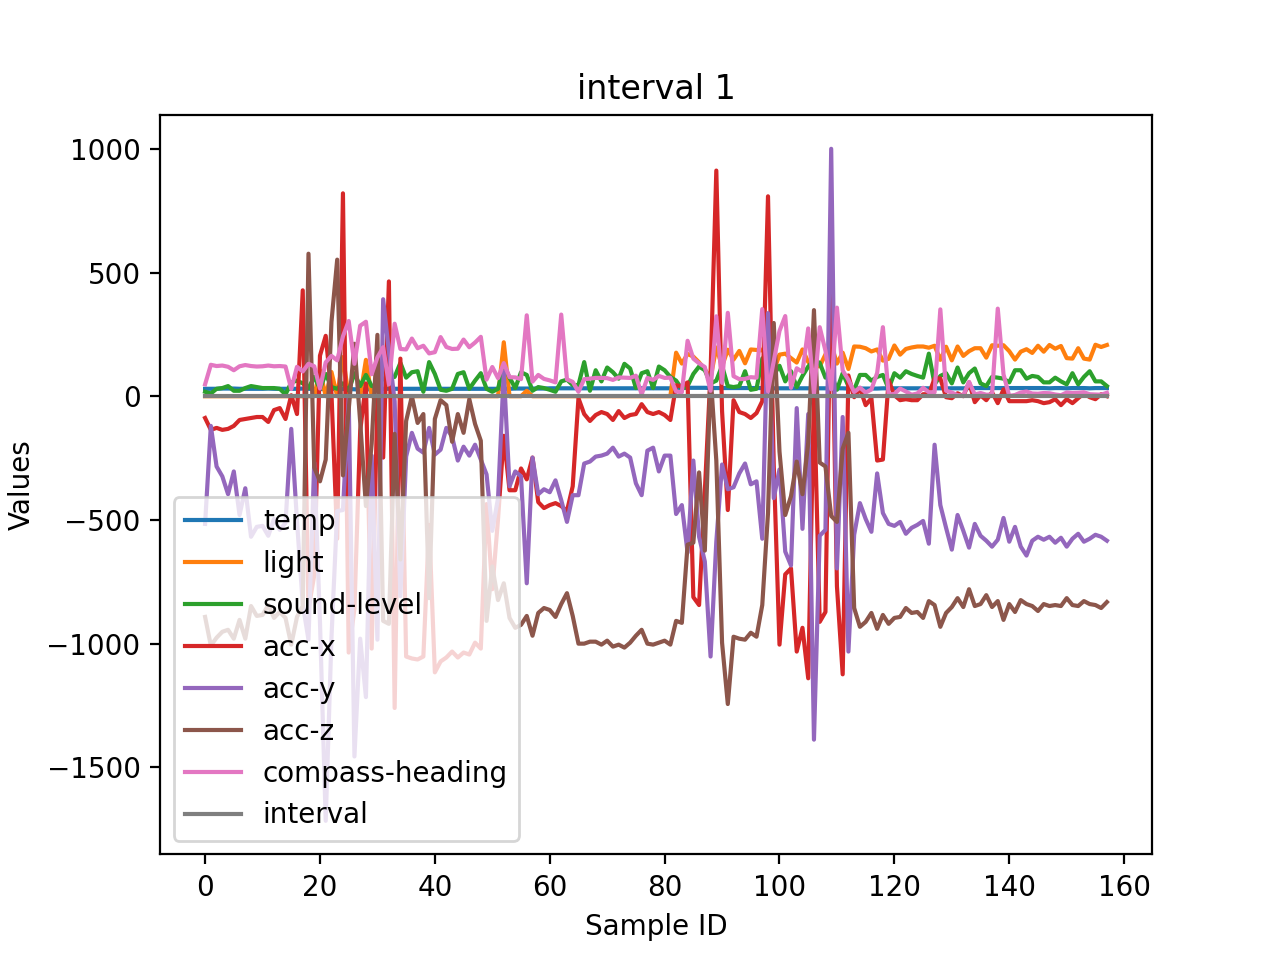
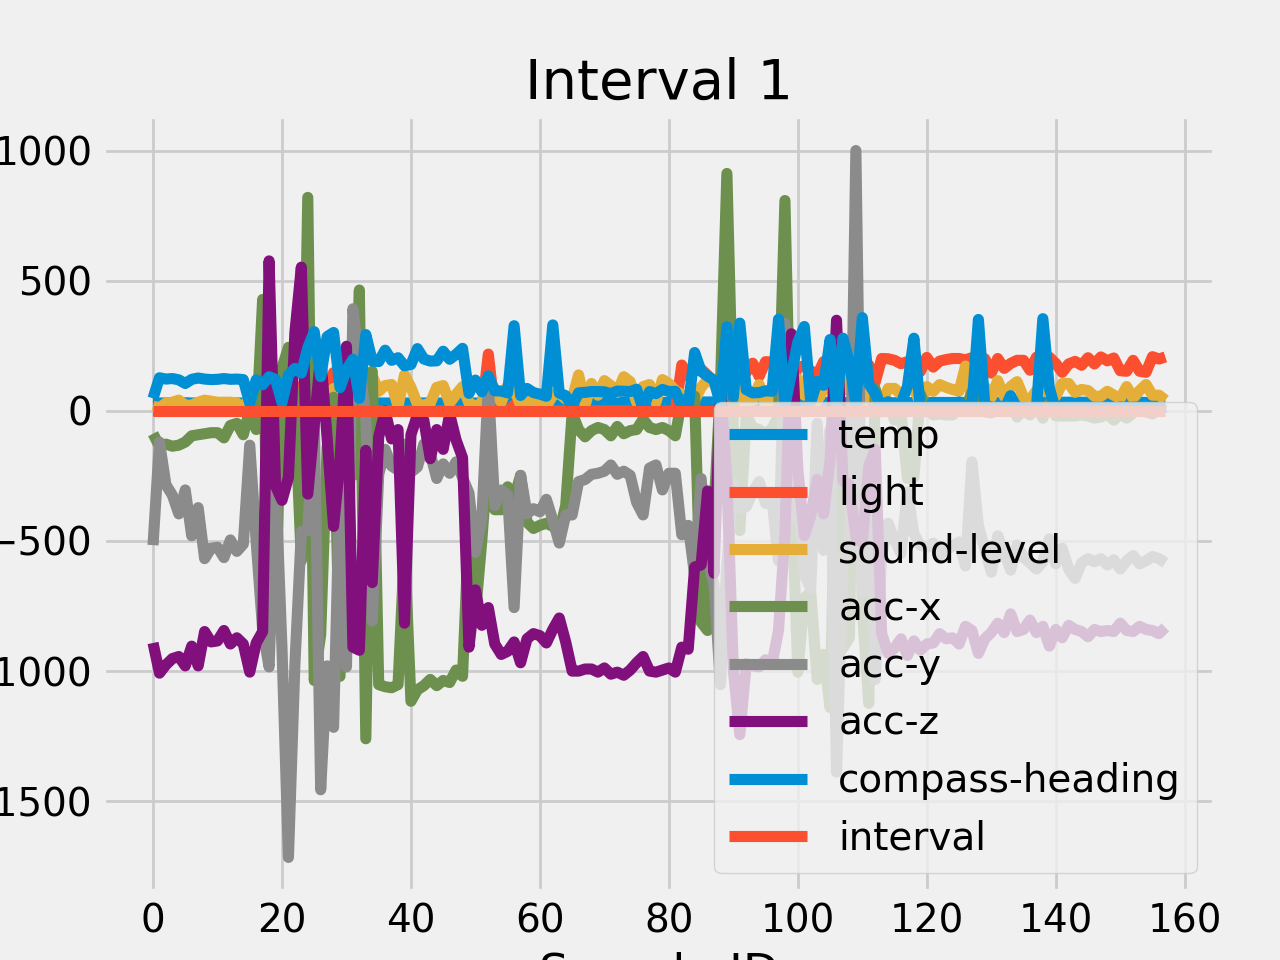
styles

diff --git a/main.py b/main.py
@@ -24,8 +24,10 @@ third_interval = data_by_interval.get_group(3)
 # Make a list of intervals
 list_of_intervals = [first_interval, second_interval, third_interval]
 
+print(plt.style.available)
 
 def all_data(list_of_intervals: list):
+    plt.style.use('fivethirtyeight')
     for interval in list_of_intervals:
         plt.title('Interval {}'.format(interval['interval'].iloc[0])) # Automatically gets the interval number
         # Plot all data except Time and sample-id
@@ -40,9 +42,11 @@ def all_data(list_of_intervals: list):
 
 def historic_temperatura(list_of_intervals: list):
     # Convert the seconds to minutes to make the plot more readable
-    plt.scatter(list_of_intervals[0]['Time (seconds)']/60, list_of_intervals[0]['temp'], color='pink')
-    plt.scatter(list_of_intervals[1]['Time (seconds)']/60, list_of_intervals[1]['temp'], color='orange')
-    plt.scatter(list_of_intervals[2]['Time (seconds)']/60, list_of_intervals[2]['temp'], color='green')
+    plt.style.use('fivethirtyeight')
+
+    plt.scatter(list_of_intervals[0]['Time (seconds)']/60, list_of_intervals[0]['temp'], color='pink', edgecolor='black')
+    plt.scatter(list_of_intervals[1]['Time (seconds)']/60, list_of_intervals[1]['temp'], color='orange', edgecolor='black')
+    plt.scatter(list_of_intervals[2]['Time (seconds)']/60, list_of_intervals[2]['temp'], color='green', edgecolor='black')
 
     # Set the ticks of the y axis to be more readable
     plt.yticks(np.arange(24, 35, 1))        
@@ -59,22 +63,28 @@ def historic_temperatura(list_of_intervals: list):
 
         
 def historic_light(list_of_intervals: list):
+    plt.style.use('fivethirtyeight')
     fig, axs = plt.subplots(len(list_of_intervals), 1)
     bins = np.linspace(0, 300, 3) 
     labels = ['Dark', 'Light']
+    colors = ['#6a5acd', '#ffc61a']
     
     for i, interval in enumerate(list_of_intervals):
         
         axs[i].set_title('Interval {}'.format(interval['interval'].iloc[0]))
         
-        binned = pd.cut(interval['light'], bins=bins, labels=labels, right=False)  # Set right=False to include the rightmost edge
+        binned = pd.cut(interval['light'], bins=bins, labels=labels,  right=False)  # Set right=False to include the rightmost edge
         # Count the number of values in each bin
         counts = binned.value_counts()
         # Remove the labels that are 0%
         counts = counts[counts != 0]
-        # Plot the bar chart
-        axs[i].barh(counts.index, counts, edgecolor='black', color='yellow')  # Swap the arguments for barh
-    
+        
+        axs[i].barh(counts.index, counts, color=colors, edgecolor='black') 
+        # Calculate the percentage for each bin
+        percentages = counts / counts.sum() * 100
+        # Add percentage labels to the bars
+        for j, (count, percentage) in enumerate(zip(counts, percentages)):
+            axs[i].text(count, j, f' {percentage:.1f}%', va='center')
     
     axs[1].set_ylabel('Light level (lux)')
     fig.suptitle('Light level')
@@ -86,12 +96,18 @@ def historic_light(list_of_intervals: list):
     
     
 def historic_sound(list_of_intervals: list):
+    plt.style.use('fivethirtyeight')
+
     fig, axs = plt.subplots(1, len(list_of_intervals), sharex=True)
     for i, interval in enumerate(list_of_intervals):
         
         axs[i].hist(interval['sound-level'], color='gray', edgecolor='black')
         axs[i].set_title('Interval {}'.format(interval['interval'].iloc[0]))
         axs[i].set_xticks(np.arange(0, 220, 20))
+        axs[i].axvline(x=70, color='red', label='Threshold')
+        axs[i].axvline(x=interval['sound-level'].mean(), color='orange', label='Mean')
+    
+    plt.legend()
     
     axs[1].set_xlabel('Sound level (dB)')
     axs[0].set_ylabel('Nº of measurements')
